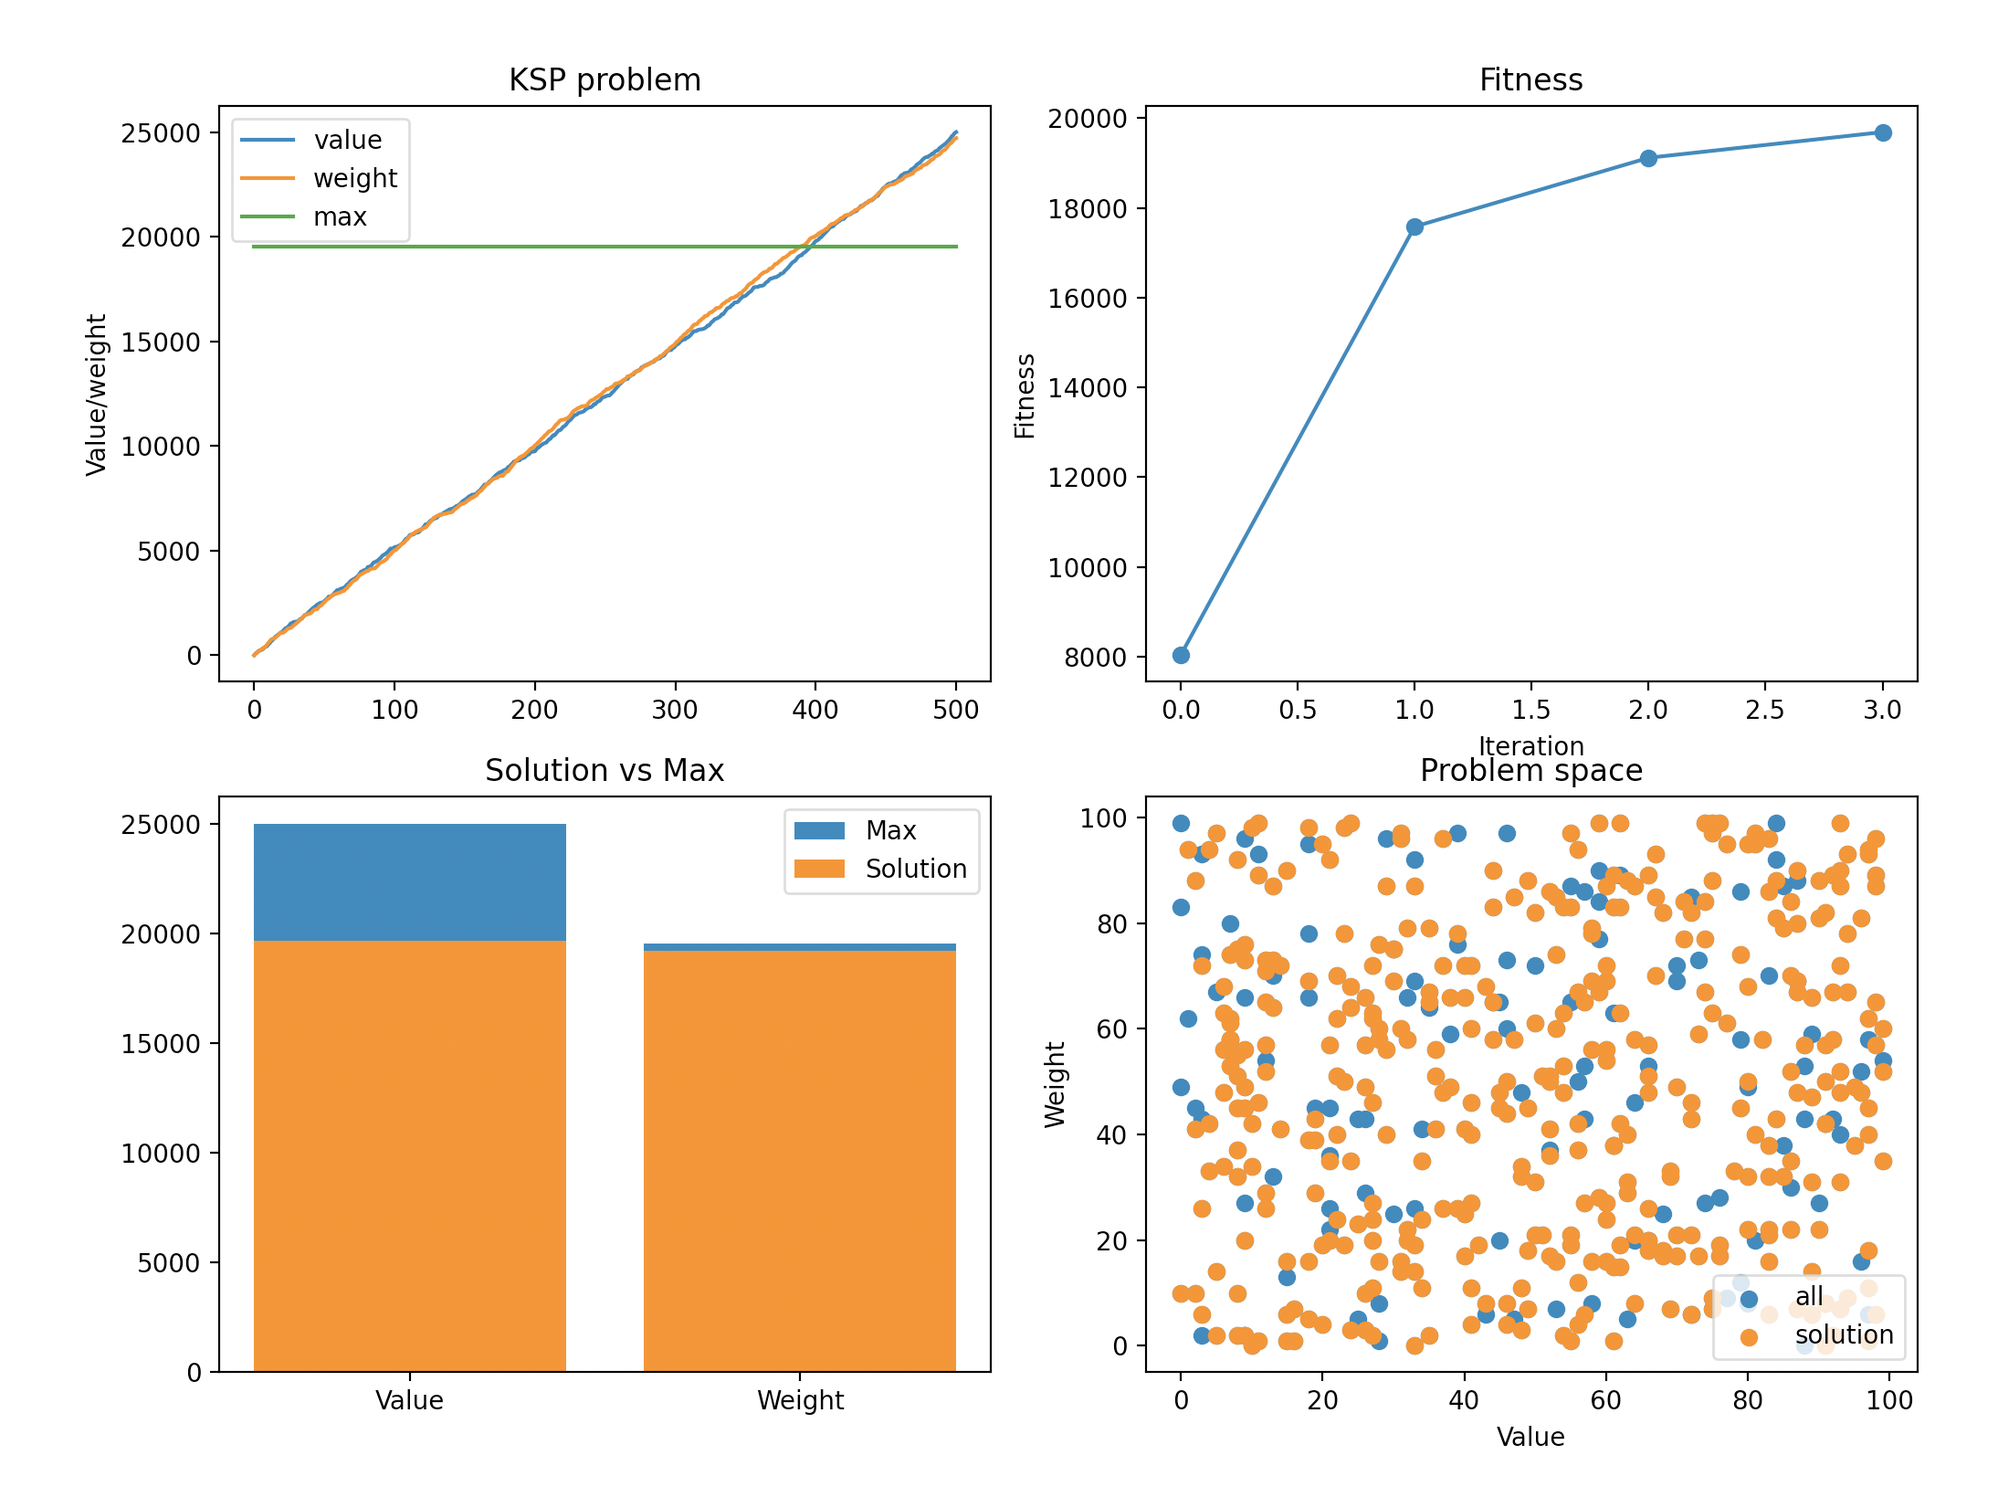
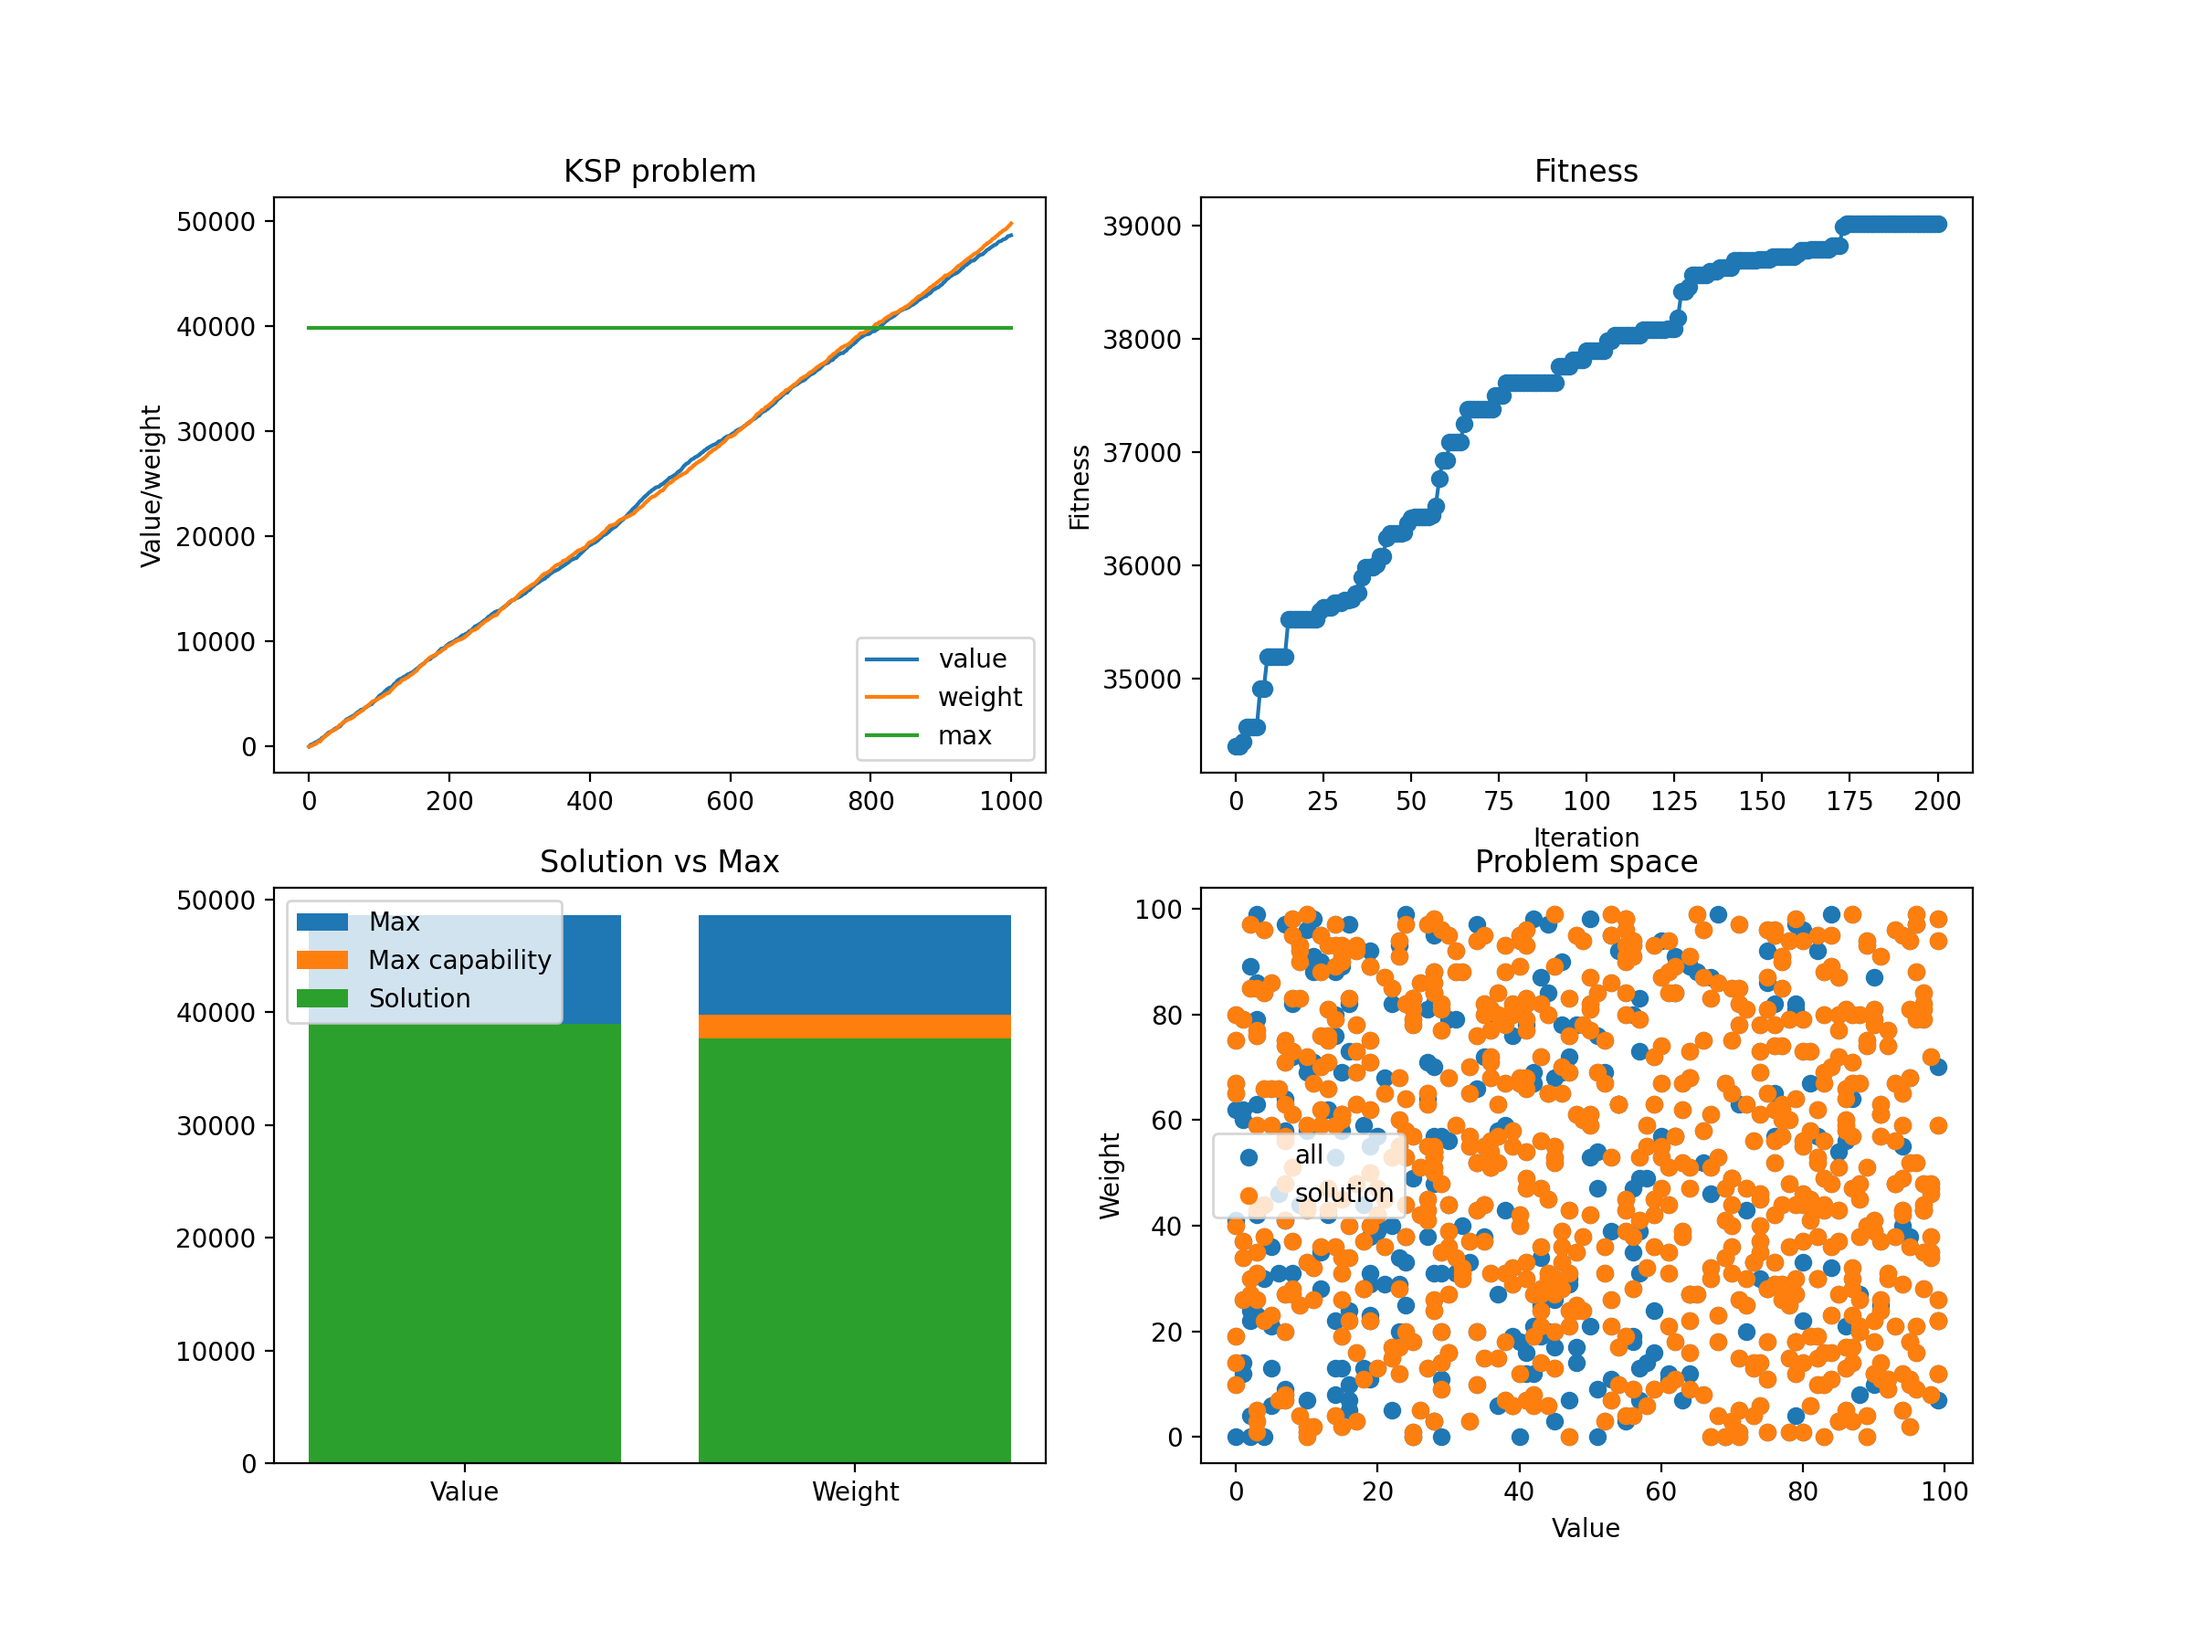
Solve bug Genetic and PBIL

diff --git a/Metaheuristics/PBIL.py b/Metaheuristics/PBIL.py
@@ -3,9 +3,14 @@ import numpy as np
 
 class PopulationBaseIncrementalLearning:
 
-    def __init__(self, problem):
+    def __init__(self, problem, encode=None):
         self.problem = problem
-        self.bc = BinaryCode(jump=problem.jump)
+        if encode is None:
+            self.bc = BinaryCode(jump=problem.jump)
+            self.size_given = False
+        else:
+            self.bc = encode
+            self.size_given = True
         self.name = "Population Base Incremental Learning"
         self.abbreviation = 'PBIL'
 
@@ -21,10 +26,18 @@ class PopulationBaseIncrementalLearning:
             aux = [str(np.random.choice([0, 1], p=[1-p,p]))
                                         for p in P]
             aux = "".join(aux)
-            while not(self.problem.min_ <= self.bc.bin2decv(aux) <= self.problem.max_):
-                aux = [str(np.random.choice([0, 1], p=[1 - p, p]))
-                       for p in P]
-                aux = "".join(aux)
+            if self.size_given:
+                while not(self.problem.min_ <=
+                          self.problem.isValid(self.bc.bin2dec(aux))
+                          <= self.problem.max_):
+                    aux = [str(np.random.choice([0, 1], p=[1 - p, p]))
+                           for p in P]
+                    aux = "".join(aux)
+            else:
+                while not(self.problem.min_ <= self.bc.bin2decv(aux) <= self.problem.max_):
+                    aux = [str(np.random.choice([0, 1], p=[1 - p, p]))
+                           for p in P]
+                    aux = "".join(aux)
             population.append(aux)
         return population
 
@@ -38,10 +51,14 @@ class PopulationBaseIncrementalLearning:
         :param number_update: population use to update P
         :return: Solution and history of solutions
        """
-       max_value = (1/self.problem.jump) * (self.problem.max_ -
-                                            self.problem.min_)
        # Initialize P
-       P = np.ones(len(self.bc.dec2bin(max_value))) * 0.5
+       if self.size_given:
+           P = np.ones(self.bc.num_nodes) * 0.5
+       else:
+           max_value = (1/self.problem.jump) * (self.problem.max_ -
+                                                self.problem.min_)
+
+           P = np.ones(len(self.bc.dec2bin(max_value))) * 0.5
        population = self.generate(P, generation_number)
        eval = self.problem(self.bc.bin2decv(population))
        history = [population[np.argmin(eval)]]
@@ -55,6 +72,6 @@ class PopulationBaseIncrementalLearning:
            population = self.generate(P, generation_number)
            eval = self.problem(self.bc.bin2decv(population))
            history.append(population[np.argmin(eval)])
-       solution = self.bc.bin2decv(population[np.argmin(eval)])
+       solution = self.bc.bin2dec(population[np.argmin(eval)])
        history = self.bc.bin2decv(history)
        return solution, history

diff --git a/main_statis_KSP.py b/main_statis_KSP.py
@@ -1,13 +1,18 @@
 import matplotlib.pyplot as plt
 from Problems.knapsack import KSP
+from Encode.binaryCodeGraph import BinaryCodeG
 from Metaheuristics.local_search import LocalSearch
 from Metaheuristics.simulated_anneling import SimmulatedAnneling
 from Metaheuristics.iterated_local_search import IteratedLocalSearch
+from Metaheuristics.genetic_algorithm import GeneticAlgorithm
+from Metaheuristics.PBIL import PopulationBaseIncrementalLearning
 from Metaheuristics.tabu_search import TabuSearch
 from tqdm import tqdm
 import numpy as np
 
-problem = KSP(500)
+size = 500
+
+problem = KSP(size)
 
 sol1 = []
 sol2 = []
@@ -15,26 +20,38 @@ sol3 = []
 sol4 = []
 sol5 = []
 sol6 = []
+sol7 = []
+sol8 = []
+sol9 = []
 
-for _ in tqdm(range(40)):
+for _ in tqdm(range(10)):
     solver1 = LocalSearch(problem)
     solver2 = SimmulatedAnneling(problem)
     solver3 = IteratedLocalSearch(problem, criterion='LSMC')
     solver4 = IteratedLocalSearch(problem, criterion='better')
     solver5 = IteratedLocalSearch(problem, criterion='rw')
-    solver6 = TabuSearch(problem)
+    solver6 = GeneticAlgorithm(problem, rank=False, encode=BinaryCodeG(size))
+    solver7 = GeneticAlgorithm(problem, rank=True, encode=BinaryCodeG(size))
+    solver8 = PopulationBaseIncrementalLearning(problem, encode=BinaryCodeG(size))
+    solver9 = TabuSearch(problem)
     solution1, _ = solver1()
     solution2, _ = solver2()
     solution3, _ = solver3()
     solution4, _ = solver4()
     solution5, _ = solver5()
     solution6, _ = solver6()
+    solution7, _ = solver7()
+    solution8, _ = solver8()
+    solution9, _ = solver9()
     sol1.append(solution1)
     sol2.append(solution2)
     sol3.append(solution3)
     sol4.append(solution4)
     sol5.append(solution5)
     sol6.append(solution6)
+    sol7.append(solution7)
+    sol8.append(solution8)
+    sol9.append(solution9)
 
 sol1 = [problem(s, real=True) for s in sol1]
 sol2 = [problem(s, real=True) for s in sol2]
@@ -42,13 +59,21 @@ sol3 = [problem(s, real=True) for s in sol3]
 sol4 = [problem(s, real=True) for s in sol4]
 sol5 = [problem(s, real=True) for s in sol5]
 sol6 = [problem(s, real=True) for s in sol6]
+sol7 = [problem(s, real=True) for s in sol7]
+sol8 = [problem(s, real=True) for s in sol8]
+sol9 = [problem(s, real=True) for s in sol9]
+
 names = [solver1.abbreviation, solver2.abbreviation,
          solver3.abbreviation + '-L', solver4.abbreviation + '-B',
-         solver5.abbreviation + '-R', solver6.abbreviation]
+         solver5.abbreviation + '-R', solver6.abbreviation,
+         solver7.abbreviation + '-r', solver8.abbreviation,
+         solver9.abbreviation]
+
 solution = [np.mean(sol1), np.mean(sol2),
             np.mean(sol3),
             np.mean(sol4), np.mean(sol5),
-            np.mean(sol6)]
+            np.mean(sol6), np.mean(sol7), np.mean(sol8),
+            np.mean(sol9)]
 
 plt.figure(figsize=(16,5))
 plt.bar(names, solution)

diff --git a/Problems/knapsack.py b/Problems/knapsack.py
@@ -6,19 +6,24 @@ class KSP:
     def __init__(self, size, max_weight=100, min_weight=0, 
                  max_value=100, min_value=0, per_remove=0.2):
         self.size = size
-        self.jump = 0
+        self.jump = 1
         self.x = np.arange(size)
         self.w = np.random.choice(np.arange(min_weight,
                                             max_weight), size)
         self.v = np.random.choice(np.arange(min_value,
                                             max_value), size)
+        self.min_ = min_weight
+        self.max_ = max_weight
         w_v = list(zip(self.w, self.v))
         original = len(w_v) * (1 - per_remove)
+        """
         while(len(w_v) > original):
             index = np.random.choice(np.arange(len(w_v)))
             w_v.pop(index)
-        _, v = list(zip(*w_v))
-        self.total = np.sum(v)
+        w, v = list(zip(*w_v))
+        """
+        self.total = np.sum(self.v)
+        self.total_w = np.sum(self.w * (1 - per_remove))
 
     def generate_space(self):
         return self.x, self.w, self.v, self.total
@@ -29,19 +34,28 @@ class KSP:
         for i in range(len(self.x)):
              w.append(w[-1] + self.w[i])
              v.append(v[-1] + self.v[i])
-        return self.x, w, v, self.total
+        return self.x, w, v, self.total_w
 
     def __call__(self, x, real=False):
-        v = np.array(self.v)[x]
         if real:
+            v = np.array(self.v)[x]
             return np.sum(v)
-        return self.total - np.sum(v)
+        if isinstance(x[0], list):
+            aux = []
+            for i in x:
+                v = np.array(self.v)[i]
+                aux.append(self.total - np.sum(v))
+            return aux
+        else:
+            v = np.array(self.v)[x]
+            return self.total - np.sum(v)
+
 
     def give_random_point(self):
         w_v = list(zip(self.w, self.v))
         aux = np.sum(self.w)
         x_ = self.x.copy()
-        while aux > self.total:
+        while aux > self.total_w:
             size = np.random.randint(5, self.size)
             x_ = np.random.choice(self.x, size, replace=False)
             w_v_ = [w_v[i] for i in x_]
@@ -61,7 +75,7 @@ class KSP:
             np.random.shuffle(x)
             for _ in x:
                 for i in x:
-                    if update_w + self.w[i] <= self.total:
+                    if update_w + self.w[i] <= self.total_w:
                         solution.append(i)
                         return solution
 
@@ -73,6 +87,9 @@ class KSP:
         for i in range(10):
             neighbours.append(self.generate_neighbour(x))
         return neighbours
+
+    def isValid(self, x):
+        return self.total_w >= np.sum(self.w[x])
 
 
 

diff --git a/main_KSP.py b/main_KSP.py
@@ -1,7 +1,9 @@
 from Problems.knapsack import KSP
+from Encode.binaryCodeGraph import BinaryCodeG
 from Metaheuristics.local_search import LocalSearch
 from Metaheuristics.simulated_anneling import SimmulatedAnneling
-#from Metaheuristics.genetic_algorithm import GeneticAlgorithm
+from Metaheuristics.genetic_algorithm import GeneticAlgorithm
+from Metaheuristics.PBIL import PopulationBaseIncrementalLearning
 from Metaheuristics.tabu_search import TabuSearch
 from Metaheuristics.iterated_local_search import IteratedLocalSearch
 
@@ -10,20 +12,21 @@ from Metaheuristics.iterated_local_search import IteratedLocalSearch
 import matplotlib.pyplot as plt
 import numpy as np
 
-
-problem = KSP(500)
+size = 1000
+problem = KSP(size)
 
 #solver = LocalSearch(problem)
-solver = SimmulatedAnneling(problem)
+#solver = SimmulatedAnneling(problem)
 #solver = IteratedLocalSearch(problem, criterion='LSMC')
 #solver = TabuSearch(problem)
-
+solver = GeneticAlgorithm(problem, encode=BinaryCodeG(size))
+#solver = PopulationBaseIncrementalLearning(problem, encode=BinaryCodeG(size))
 
 x, w, v, t = problem.get_incremental()
+
 solution, iterations = solver(max_iter=200)
 iterations = [problem(i, real=True) for i in iterations]
 iter = np.arange(len(iterations))
-
 
 plt.figure(figsize=(12,9))
 plt.subplot(2,2,1)
@@ -45,6 +48,9 @@ plt.bar(["Value", "Weight"],
          problem.total],
          label='Max')
 plt.bar(["Value", "Weight"],
+        [0, t],
+         label='Max capability')
+plt.bar(["Value", "Weight"],
         [problem(solution, real=True),
          np.sum(problem.w[solution])],
          label='Solution')
@@ -60,4 +66,3 @@ plt.xlabel('Value')
 plt.ylabel('Weight')
 plt.legend()
 plt.show()
-

diff --git a/Metaheuristics/genetic_algorithm.py b/Metaheuristics/genetic_algorithm.py
@@ -4,9 +4,13 @@ import copy
 
 class GeneticAlgorithm:
 
-    def __init__(self, problem, elit_=True, rank=False):
+    def __init__(self, problem, elit_=True, rank=False,
+                 encode=None):
         self.problem = problem
-        self.bc = BinaryCode(jump=problem.jump)
+        if encode is None:
+            self.bc = BinaryCode(jump=problem.jump)
+        else:
+            self.bc = encode
         self.name = "Genetic Algorithm"
         self.abbreviation = 'GA'
         self.do_rank = rank
@@ -138,6 +142,6 @@ class GeneticAlgorithm:
             history.append(population[np.argmin(eval)])
             if np.sum(np.max(eval) - np.array(eval)) == 0:
                 break
-        solution = self.bc.bin2decv(population[np.argmin(eval)])
+        solution = self.bc.bin2dec(population[np.argmin(eval)])
         history = self.bc.bin2decv(history)
         return solution, history

diff --git a/Encode/binaryCodeGraph.py b/Encode/binaryCodeGraph.py
@@ -1,0 +1,32 @@
+import numpy as np
+
+
+class BinaryCodeG:
+
+    def __init__(self, jump):
+        self.num_nodes = jump
+
+    def dec2bin(self, x):
+        aux = np.zeros(self.num_nodes)
+        for xi in x:
+            aux[xi] = 1
+        return "".join(aux.astype(int).astype(str))
+
+    def bin2dec(self, x):
+        x = np.array(list(x)).astype(int)
+        return list(np.nonzero(x)[0])
+
+    def dec2binv(self, x_list):
+        aux = []
+        for x in x_list:
+            aux.append(self.dec2bin(x))
+        return aux
+
+    def bin2decv(self, x_list):
+        aux = []
+        for x in x_list:
+            aux.append(self.bin2dec(x))
+        return aux
+
+
+
